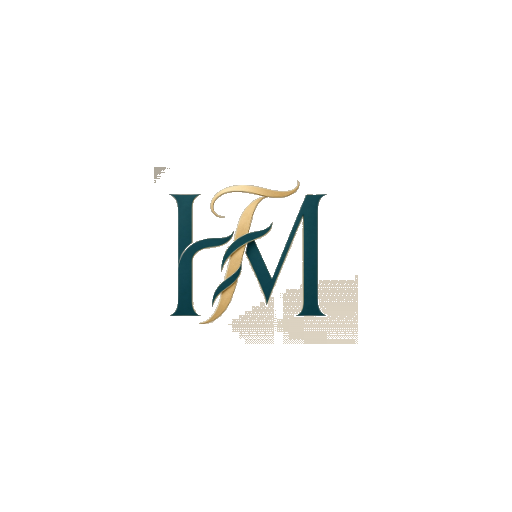
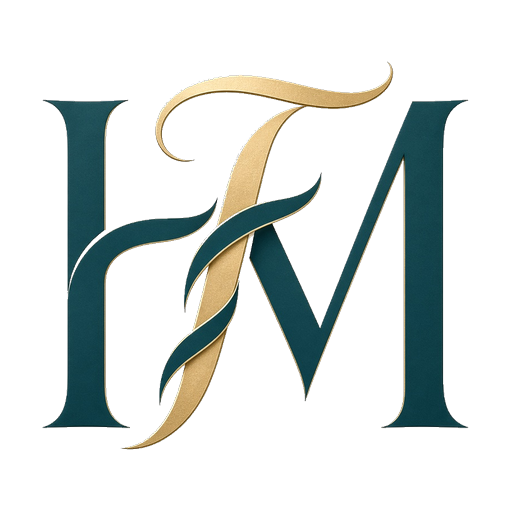
Clean the monogram and replace the gold bar with liquid glass
The mark is rebuilt from the clean braid. The scrolled header is frosted glass. The red ticker is gone. Offers float as cards and the diagonal story bands use rounded photo cards.

Changed region(s): [[0.0938, 0.125, 0.9062, 0.875]]

diff --git a/src/routes/index.tsx b/src/routes/index.tsx
@@ -149,18 +149,16 @@ function Hero({ content, variant }: { content: LandingContent; variant: "cinemat
 
 function Ticker({ items }: { items: string[] }) {
   const source = items.length ? items : ["Personalized meals", "Belly Binding Studio", "Nouri"];
-  const loop = [...source, ...source];
+  const shown = source.slice(0, 3);
   return (
-    <div className="bg-clay py-6 text-paper">
-      <div className="marquee">
-        <div className="marquee-track">
-          {loop.map((item, i) => (
-            <span key={`${item}-${i}`} className="flex items-center px-8 text-sm tracking-[0.18em] uppercase md:px-14 md:text-base">
-              {item}
-              <span className="mx-8 inline-block size-1.5 rounded-full bg-gold md:mx-14" />
-            </span>
-          ))}
-        </div>
+    <div className="relative overflow-hidden bg-wash-linen">
+      <div className="offer-stage mx-auto max-w-6xl">
+        {shown.map((item) => (
+          <article key={item} className="offer-card">
+            <p className="text-xs uppercase tracking-[0.22em] text-ink/45">In the house</p>
+            <p className="mt-3 font-display text-2xl leading-tight md:text-3xl">{item}</p>
+          </article>
+        ))}
       </div>
     </div>
   );
@@ -231,31 +229,31 @@ function SplitStory({
           ? "text-plum"
           : "text-primary";
   const copy = (
-    <Reveal className={`flex min-h-[70vh] flex-col justify-center px-5 py-24 md:px-16 md:py-32 lg:min-h-dvh lg:px-20 ${wash}`}>
-      <div className="glass-panel max-w-xl p-7 md:p-10">
+    <div className={`split-copy flex min-h-[58vh] items-center px-1 py-8 lg:min-h-[auto] lg:py-16 ${wash}`}>
+      <Reveal className="glass-panel w-full max-w-xl p-7 md:p-10">
       <p className={`text-xs uppercase tracking-[0.32em] ${kickerColor}`}>{kicker}</p>
       <h2 className="mt-6 font-display text-[clamp(2.4rem,4.5vw,4.4rem)] leading-[1.02]">{title}</h2>
       <p className="mt-8 max-w-md text-lg leading-relaxed text-ink-soft md:text-xl">{body}</p>
       <Link to={href} className={`mt-10 inline-flex items-center gap-2 ${linkColor}`}>
         {linkLabel} <ArrowRight className="size-4" />
       </Link>
-      </div>
-    </Reveal>
+      </Reveal>
+    </div>
   );
   const picture = (
-    <div className="relative min-h-[70vh] lg:min-h-dvh">
+    <div className="split-photo relative">
       <ParallaxFrame src={src} alt={alt} speed={0.34} className="absolute inset-0" />
       {extraSrc ? (
         <img
           src={extraSrc}
           alt={extraAlt ?? ""}
-          className="media absolute bottom-10 right-8 hidden w-44 rounded-2xl object-cover shadow-[var(--shadow-border)] md:block md:h-56 md:w-48"
+          className="media absolute bottom-8 right-6 hidden w-40 rounded-3xl object-cover shadow-[var(--shadow-border)] md:block md:h-52 md:w-44"
         />
       ) : null}
     </div>
   );
   return (
-    <section className="grid lg:min-h-dvh lg:grid-cols-2">
+    <section className={`split-board grid lg:min-h-[auto] lg:grid-cols-2 ${photo === "left" ? "is-left" : "is-right"} ${wash}`}>
       {photo === "left" ? (
         <>
           {picture}

diff --git a/src/styles.css b/src/styles.css
@@ -679,21 +679,66 @@ html[data-pricing="linen"] .pricing-stage {
   }
 }
 
-.nav-gold-glass {
-  background:
-    linear-gradient(
-      180deg,
-      color-mix(in oklab, #e4b75a 72%, var(--color-paper)) 0%,
-      color-mix(in oklab, var(--color-gold) 58%, var(--color-paper)) 48%,
-      color-mix(in oklab, #c4923a 46%, var(--color-paper)) 100%
-    );
-  backdrop-filter: blur(28px) saturate(1.7);
-  -webkit-backdrop-filter: blur(28px) saturate(1.7);
+.nav-liquid-glass {
+  background: color-mix(in oklab, #ffffff 52%, transparent);
+  backdrop-filter: blur(28px) saturate(1.8);
+  -webkit-backdrop-filter: blur(28px) saturate(1.8);
   box-shadow:
-    inset 0 1px 0 color-mix(in oklab, #fff8e8 70%, transparent),
-    0 1px 0 color-mix(in oklab, var(--color-gold) 55%, transparent),
-    0 16px 36px -20px color-mix(in oklab, #8a5a18 45%, transparent);
-  border-bottom-color: color-mix(in oklab, var(--color-gold) 50%, transparent);
+    inset 0 1px 0 color-mix(in oklab, #ffffff 70%, transparent),
+    0 8px 28px -18px color-mix(in oklab, var(--color-ink) 28%, transparent);
+  border-bottom-color: color-mix(in oklab, #ffffff 40%, transparent);
+}
+
+.offer-stage {
+  display: grid;
+  gap: 1rem;
+  padding: 1.5rem 1rem 2rem;
+  grid-template-columns: 1fr;
+}
+@media (min-width: 768px) {
+  .offer-stage {
+    grid-template-columns: repeat(3, minmax(0, 1fr));
+    padding: 2rem 1.5rem 2.5rem;
+  }
+}
+.offer-card {
+  border-radius: 28px;
+  padding: 1.35rem 1.4rem;
+  background: color-mix(in oklab, #ffffff 46%, transparent);
+  backdrop-filter: blur(22px) saturate(1.6);
+  -webkit-backdrop-filter: blur(22px) saturate(1.6);
+  box-shadow:
+    inset 0 1px 0 color-mix(in oklab, #ffffff 65%, transparent),
+    0 18px 40px -28px color-mix(in oklab, var(--color-ink) 35%, transparent);
+  animation: offer-float 7s ease-in-out infinite;
+}
+.offer-card:nth-child(2) { animation-delay: -2.2s; }
+.offer-card:nth-child(3) { animation-delay: -4.4s; }
+@keyframes offer-float {
+  0%, 100% { transform: translateY(0); }
+  50% { transform: translateY(-10px); }
+}
+
+.split-board {
+  gap: 1.25rem;
+  padding: 1.25rem;
+  background: transparent;
+}
+.split-photo {
+  overflow: hidden;
+  border-radius: 32px;
+  min-height: 58vh;
+  box-shadow: 0 24px 50px -28px color-mix(in oklab, var(--color-ink) 40%, transparent);
+}
+@media (min-width: 1024px) {
+  .split-board {
+    padding: 2rem;
+  }
+  .split-photo {
+    min-height: calc(100vh - 8rem);
+  }
+  .split-board.is-left .split-copy { transform: translateY(2.5rem); }
+  .split-board.is-right .split-copy { transform: translateY(-1.5rem); }
 }
 
 

diff --git a/src/routes/__root.tsx b/src/routes/__root.tsx
@@ -22,8 +22,8 @@ export const Route = createRootRoute({
       { name: "theme-color", content: "#1F5F8A" },
     ],
     links: [
-      { rel: "icon", type: "image/png", sizes: "32x32", href: "/favicon-32.png?v=hfm6" },
-      { rel: "icon", type: "image/png", sizes: "180x180", href: "/icon-180.png?v=hfm6" },
+      { rel: "icon", type: "image/png", sizes: "32x32", href: "/favicon-32.png?v=hfm8" },
+      { rel: "icon", type: "image/png", sizes: "180x180", href: "/icon-180.png?v=hfm8" },
       { rel: "apple-touch-icon", href: "/icon-180.png" },
       { rel: "preconnect", href: "https://fonts.googleapis.com" },
       { rel: "preconnect", href: "https://fonts.gstatic.com", crossOrigin: "anonymous" },

diff --git a/src/components/layout/public-chrome.tsx b/src/components/layout/public-chrome.tsx
@@ -44,7 +44,7 @@ export function PublicNav({ overlay = false }: { overlay?: boolean }) {
         "transition-[background,box-shadow,border-color,color] duration-700 ease-out",
         onHero
           ? "border-b border-transparent bg-transparent"
-          : "nav-gold-glass border-b border-gold/20 text-foreground",
+          : "nav-liquid-glass border-b border-white/30 text-foreground",
       )}
     >
       <div className="mx-auto flex h-[4.25rem] max-w-6xl items-center justify-between gap-3 px-4 md:h-[5.25rem] md:px-6">

diff --git a/src/components/brand/logo.tsx b/src/components/brand/logo.tsx
@@ -2,7 +2,7 @@ import { Link } from "@tanstack/react-router";
 import { cn } from "@/lib/utils";
 import { usePublicSite } from "@/lib/use-public-site";
 
-export const HOUSE_MARK = "/images/logos/mark-hfm.png?v=7";
+export const HOUSE_MARK = "/images/logos/mark-hfm.png?v=8";
 
 export function HouseMark({ className }: { className?: string }) {
   return (
